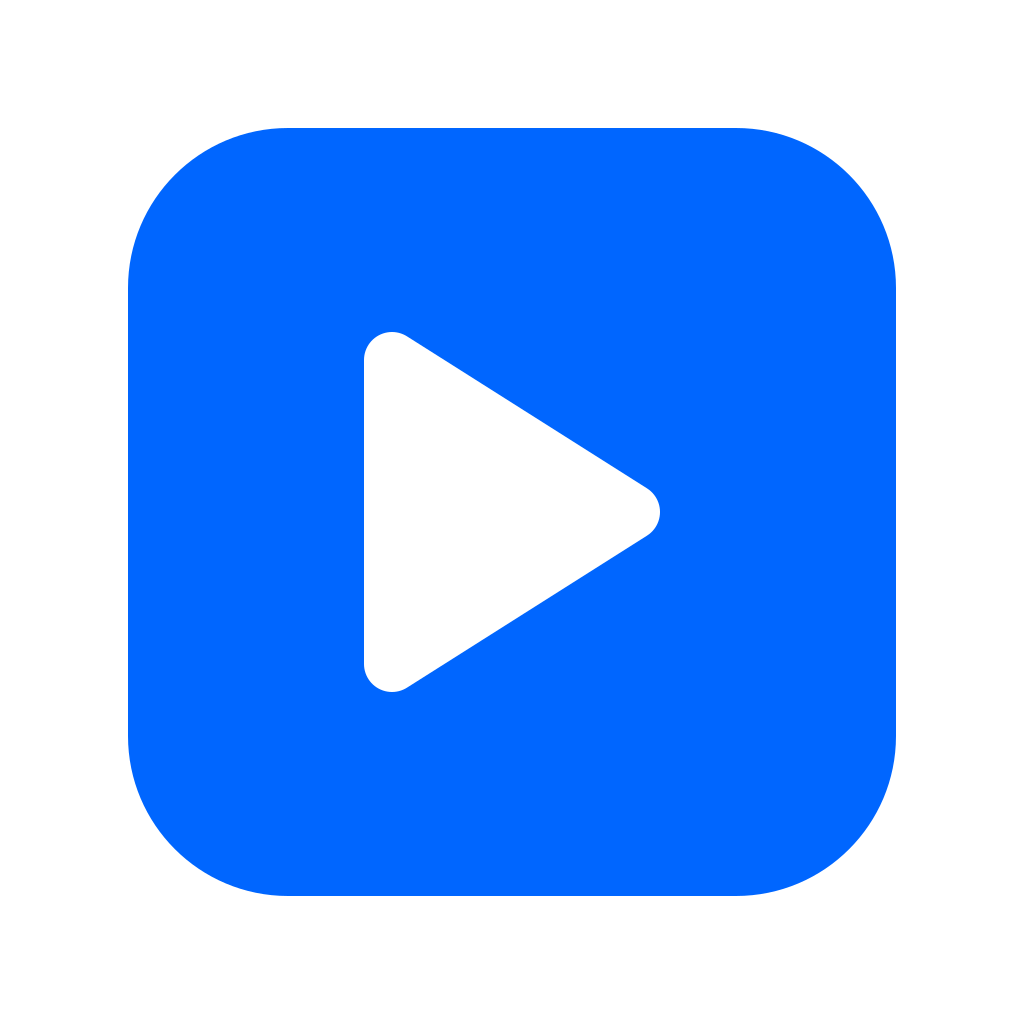
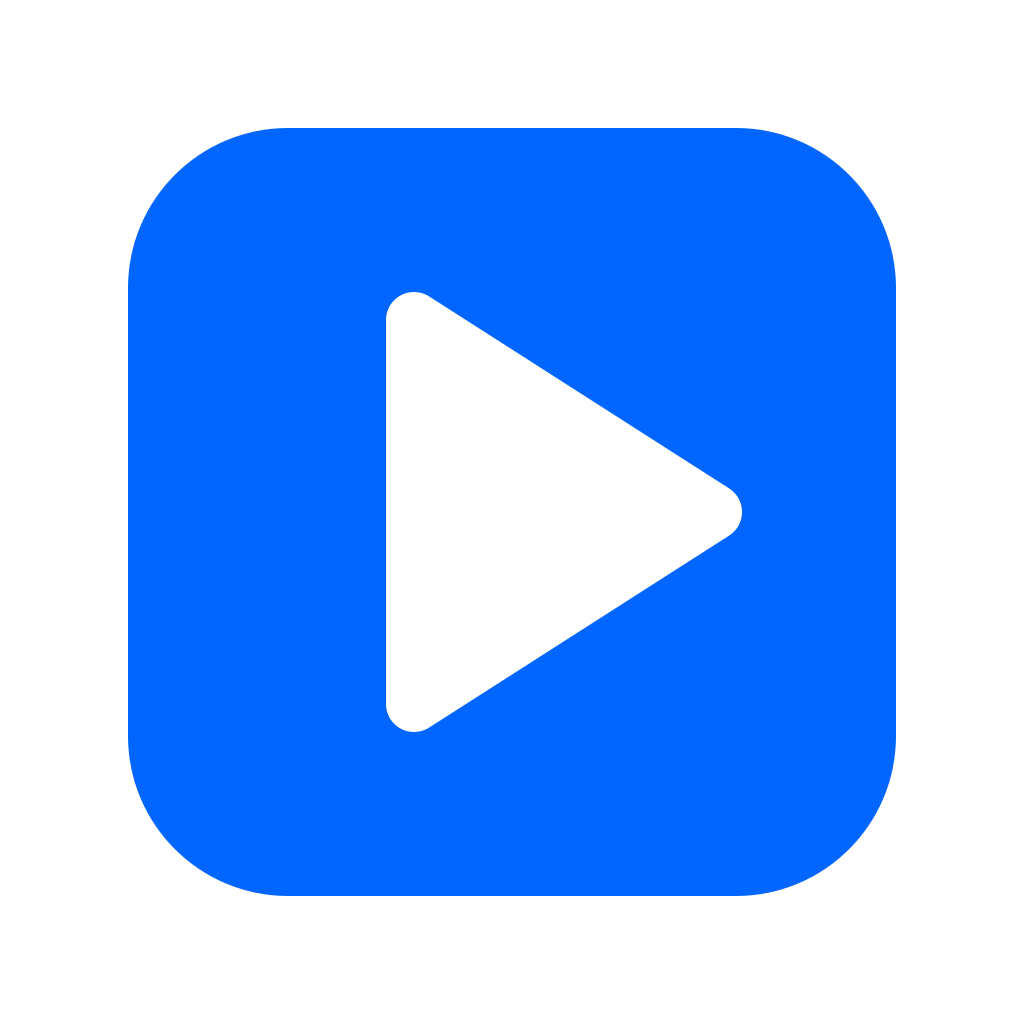
docs(design): refine Frame Play glyph for small sizes
Larger optically centered play, dedicated 16/32/48 exports, documented limits of the alternatives.

Changed region(s): [[0.3438, 0.2812, 0.7188, 0.7188]]

diff --git a/docs/design/brand/render-icons.js b/docs/design/brand/render-icons.js
@@ -6,11 +6,12 @@ const files = [
   { input: 'icon-source.svg', output: 'icon-source.png', size: 1024 },
   { input: 'icon-alt-1-signal-rings.svg', output: 'icon-alt-1-signal-rings-256.png', size: 256 },
   { input: 'icon-alt-2-channel-dial.svg', output: 'icon-alt-2-channel-dial-256.png', size: 256 },
-  // Small-size legibility tests for the primary icon
+  // Primary icon exports. Small sizes use dedicated, pixel-grid-aligned SVGs
+  // with thicker strokes so the play stays legible and its corners remain round.
   { input: 'icon-source.svg', output: 'icon-source-256.png', size: 256 },
-  { input: 'icon-source.svg', output: 'icon-source-48.png', size: 48 },
-  { input: 'icon-source.svg', output: 'icon-source-32.png', size: 32 },
-  { input: 'icon-source.svg', output: 'icon-source-16.png', size: 16 },
+  { input: 'icon-source-48.svg', output: 'icon-source-48.png', size: 48 },
+  { input: 'icon-source-32.svg', output: 'icon-source-32.png', size: 32 },
+  { input: 'icon-source-16.svg', output: 'icon-source-16.png', size: 16 },
 ];
 
 (async () => {

diff --git a/docs/design/brand/brand-usage-notes.md b/docs/design/brand/brand-usage-notes.md
@@ -17,35 +17,59 @@ Forma de tela/TV moderna com cantos arredondados e um símbolo de play central. 
 
 > O azul elétrico foi escolhido para evitar o vermelho do IPTV Smarters, o laranja do IPTVnator e tons genéricos de streaming. Mantém contraste forte tanto em fundos claros quanto escuros.
 
-## Área de respiro e máscara arredondada
+## Proporção da placa e área de respiro
 
-- **Tamanho fonte:** 1024 × 1024 px
-- **Elementos principais** ficam dentro de uma área segura de **768 × 768 px** centralizada (margem de 128 px em todos os lados).
-- Essa margem garante que a máscara arredondada do Windows não corte os elementos visuais nos tamanhos 16–256 px.
+- **Tamanho fonte:** 1024 × 1024 px.
+- A placa azul ocupa **75% do canvas** (**768 × 768 px**), deixando uma margem de **128 px** em todos os lados.
+- Cantos arredondados com `rx = 160 px` (~20,8% da largura da placa).
+- **Escolha de 75% vs. 80%:** mantivemos 75% porque é a proporção já aprovada e garante folga confortável para as máscaras arredondadas do Windows em todos os exportes (16–256 px). Avaliamos 80% (819 × 819 px); embora não cortasse a placa, o ganho visual não compensou a redução da margem de segurança.
 - Mantenha o ícone sobre fundo transparente sempre que possível.
 
-## Tamanhos de exportação sugeridos
+## Ajustes do glifo ótico (versão corrigida)
+
+- **Altura do play:** o triângulo branco, medido com o contorno (`stroke`), passou de ~46,9% da altura da placa (~360/768 px) para **~57,3%** (**~440/768 px**), dentro da meta de 55–60%.
+- **Deslocamento para a direita:** o centroide do triângulo estava aproximadamente **40 px à esquerda** do centro geométrico da placa. Deslocamos o path **+22 px** para a direita (~2,1% do canvas). O centroide corrigido fica aproximadamente **2 px à direita** do centro, neutralizando o peso visual à esquerda.
+- **Cor:** `#0066FF` para a placa, `#FFFFFF` para o play. Não usar `#00A3E0` nem `#4F46E5` na identidade principal.
+
+## Exportes e legibilidade
 
 | Uso | Tamanho | Fonte |
 |-----|---------|-------|
 | Ícone da loja / installer | 1024 × 1024 px | `icon-source.png` |
-| Ícone do app ( Windows ) | 256 × 256 px | redimensionar a partir do SVG/PNG 1024 |
-| Taskbar / Start menu | 32–48 px | redimensionar a partir do SVG |
-| Favicon / tray | 16 × 16 px | testar legibilidade do play simplificado |
+| Ícone do app (Windows) | 256 × 256 px | redimensionar a partir do SVG fonte |
+| Taskbar / Start menu | 32–48 px | variantes SVG próprias (`icon-source-32.svg`, `icon-source-48.svg`) |
+| Favicon / tray | 16 × 16 px | variante SVG própria (`icon-source-16.svg`) |
 
-Para tamanhos muito pequenos (16–24 px), o símbolo de play continua legível porque ocupa a área central e tem espessura generosa.
+- Os tamanhos **16, 32 e 48 px** são renderizados a partir de **variantes SVG dedicadas**, alinhadas ao pixel grid e com traços mais grossos. Isso evita que o play desmorone ou que seus cantos fiquem retos quando se reduz apenas o arquivo de 1024 px.
+- A **256 px** continua sendo gerada diretamente do SVG fonte.
 
-## Direções alternativas
+## Medições da marca principal
 
-Foram geradas duas variações em 256 px para revisão:
+| Propriedade | Valor medido |
+|-------------|--------------|
+| Canvas fonte | 1024 × 1024 px |
+| Placa | 768 × 768 px (**75%** do canvas) |
+| Raio dos cantos da placa | 160 px |
+| Altura efetiva do play (incl. `stroke`) | ~440 px (**~57,3%** da placa) |
+| Deslocamento do path do play | **+22 px** à direita |
+| Centroide do play | ~2 px à direita do centro da placa |
+| Contraste play/placa (`#FFFFFF` sobre `#0066FF`) | **~4,8 : 1** |
 
-1. **`icon-alt-1-signal-rings-256.png`** — *Signal Bullseye* (teal `#00A3E0`)
+O contraste medido nos exportes de **16, 32 e 48 px** permanece **~4,8 : 1**, já que as cores não mudam.
+
+## Direções alternativas (exploratórias)
+
+Mantidas como alternativas e **não** como identidade principal.
+
+1. **`icon-alt-1-signal-rings-256.png`** — *Signal Bullseye* (`#00A3E0`)
    - Leitura: transmissão, broadcast, sinal ao vivo.
-   - Risco: em 16 px os anéis podem colapsar visualmente.
+   - **Limitação medida:** sem a placa azul, o `#00A3E0` sobre fundos claros fica com contraste **~2,7 : 1**, abaixo do mínimo de 3 : 1.
+   - Risco adicional: em 16 px os anéis podem colapsar visualmente.
 
-2. **`icon-alt-2-channel-dial-256.png`** — *Channel Dial* (índigo `#4F46E5`)
+2. **`icon-alt-2-channel-dial-256.png`** — *Channel Dial* (`#4F46E5`)
    - Leitura: sintonia de canais, controle clássico de TV.
-   - Risco: pode parecer menos digital/menos "streaming".
+   - **Limitação medida:** o knob/círculo pequeno superior **evapora em tamanhos < 32 px**.
+   - Risco adicional: pode parecer menos digital/menos "streaming".
 
 ### Recomendação
 
@@ -57,11 +81,15 @@ Manter **`icon-source`** como principal. Ela é a mais escaneável, a mais disti
 - Não usar gradientes pesados, brilho ou reflexos realistas.
 - Não inverter a hierarquia de cor (não use branco como fundo do ícone com play azul, pois perde impacto).
 - Não esticar o ícone fora da área segura de 768 × 768 px.
+- Não alterar a cor principal para `#00A3E0` ou `#4F46E5`.
 
 ## Arquivos entregues
 
-- `icon-source.svg` — vetor de origem da marca principal
+- `icon-source.svg` — vetor de origem da marca principal (1024 × 1024 px)
 - `icon-source.png` — PNG 1024 × 1024 px com transparência
+- `icon-source-16.svg`, `icon-source-32.svg`, `icon-source-48.svg` — variantes otimizadas para tamanhos pequenos
+- `icon-source-16.png`, `icon-source-32.png`, `icon-source-48.png`, `icon-source-256.png` — exportes refeitos
 - `icon-alt-1-signal-rings.svg` / `icon-alt-1-signal-rings-256.png`
 - `icon-alt-2-channel-dial.svg` / `icon-alt-2-channel-dial-256.png`
 - `brand-usage-notes.md` — este arquivo
+- `render-icons.js` — script de renderização dos PNGs
